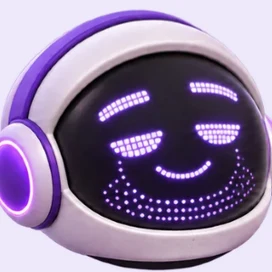
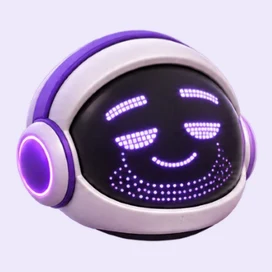
Órbitas sin cruces, núcleo legible e imágenes completas

diff --git a/landing/css/styles.css b/landing/css/styles.css
@@ -169,12 +169,12 @@ h3 { font-size: 1.2rem; font-weight: 700; line-height: 1.3; }
 .orbita__anillos .punteado { stroke-dasharray: 3 7; }
 .orbita__anillos .activo { stroke: var(--soft); stroke-width: 2; }
 .orbita__nucleo {
-  position: absolute; left: 50%; top: 50%; z-index: 1; width: 14%; aspect-ratio: 1; transform: translate(-50%, -50%);
+  position: absolute; left: 50%; top: 50%; z-index: 1; width: clamp(62px, 16.8%, 88px); aspect-ratio: 1; container-type: size; transform: translate(-50%, -50%);
   border-radius: 50%; display: grid; place-items: center; text-align: center;
   background: radial-gradient(circle at 35% 30%, var(--electric), var(--evox) 60%, rgb(112 38 232 / .4));
 }
-.orbita__nucleo span { color: var(--white); font-weight: 700; font-size: clamp(.7rem, 1.6vw, .9375rem); line-height: 1.15; padding: 6px; }
-.orbita__nebula { position: absolute; right: 4%; top: -6%; width: 26%; aspect-ratio: 1.4; border-radius: 50%; background: radial-gradient(closest-side, rgb(183 131 255 / .3), transparent); filter: blur(6px); }
+.orbita__nucleo span { color: var(--white); font-weight: 700; font-size: .7rem; font-size: clamp(.7rem, 17.5cqw, .9375rem); line-height: 1.15; width: min-content; }
+.orbita__nebula { position: absolute; right: -1%; top: -36%; width: 26%; aspect-ratio: 1.4; border-radius: 50%; background: radial-gradient(closest-side, rgb(183 131 255 / .3), transparent); filter: blur(6px); }
 .orbita__misiones li {
   position: absolute; z-index: 2;
   left: calc(50% + cos(var(--a) * 1deg) * var(--rx) * 1%);
@@ -194,7 +194,7 @@ h3 { font-size: 1.2rem; font-weight: 700; line-height: 1.3; }
 /* Con el plano inclinado en 3D, el propio plano, sus capas decorativas y las cajas vacías de cada astro tapaban los enlaces: solo el enlace recibe el clic. */
 .orbita__plano { pointer-events: none; }
 .orbita__misiones a { pointer-events: auto; }
-.orbita__misiones li.es-nebula { left: 80%; top: 4%; }
+.orbita__misiones li.es-nebula { left: 88%; top: -24%; }
 .orbita__misiones a {
   display: flex; flex-direction: column; align-items: center; gap: 2px; padding: 8px; min-height: 44px; text-decoration: none; text-align: center;
   font-size: .8125rem; color: var(--texto); white-space: nowrap;
@@ -222,7 +222,7 @@ h3 { font-size: 1.2rem; font-weight: 700; line-height: 1.3; }
 @media (max-width: 899px) {
   .hero { grid-template-columns: 1fr; min-height: auto; padding-top: calc(var(--cabecera) + 40px); }
   .hero__intro { min-height: 0; }
-  .orbita { max-width: 460px; margin-top: 8px; }
+  .orbita { max-width: 460px; margin-top: 72px; }
   .orbita__misiones a { font-size: .75rem; }
   .orbita__misiones b { font-size: .8125rem; }
 }

diff --git a/landing/js/main.js b/landing/js/main.js
@@ -82,8 +82,8 @@ alHacerScroll();
 /* ---------- Hero: órbitas, inclinación y elección de perfil ---------- */
 const orbita = $('[data-orbita]');
 const plano = $('[data-orbita-plano]');
-const astros = $$('[data-astro]').filter((li) => li.dataset.astro !== 'nebula').map((li, i) => ({
-  li, a: parseFloat(li.style.getPropertyValue('--a')), v: [9, 6, 4, 2.5][i], // grados por segundo: lo interior gira más rápido
+const astros = $$('[data-astro]').filter((li) => li.dataset.astro !== 'nebula').map((li) => ({
+  li, a: parseFloat(li.style.getPropertyValue('--a')),
   rx: parseFloat(li.style.getPropertyValue('--rx')), ry: parseFloat(li.style.getPropertyValue('--ry')),
 }));
 // En la mitad trasera de la órbita el astro pasa detrás del núcleo y su etiqueta va arriba.
@@ -96,10 +96,11 @@ function colocar(s) {
 let heroVisible = true, pausa = false, detenido = false, girando = false, t0 = 0, giroTactil = 0;
 astros.forEach(colocar);
 
+const VELOCIDAD = 5; // grados por segundo, igual para todos: así ningún astro alcanza a otro ni tapa su enlace
 function girar(t) {
   if (!heroVisible || pausa || detenido || reducido.matches || document.hidden) { girando = false; return; }
   const dt = Math.min(64, t - (t0 || t)) / 1000; t0 = t;
-  for (const s of astros) { s.a = (s.a + s.v * dt) % 360; colocar(s); }
+  for (const s of astros) { s.a = (s.a + VELOCIDAD * dt) % 360; colocar(s); }
   requestAnimationFrame(girar);
 }
 function arrancar() { if (!girando && heroVisible && !pausa && !detenido && !reducido.matches) { girando = true; t0 = 0; requestAnimationFrame(girar); } }

diff --git a/landing/index.html b/landing/index.html
@@ -91,9 +91,9 @@
           <div class="orbita__nebula" aria-hidden="true"></div>
           <ul class="orbita__misiones" aria-label="Las cinco misiones">
             <li style="--rx:18.7;--ry:14.7;--a:200" data-astro="ignition"><a href="#mision-ignition"><span class="et"><b>Ignition</b> <span>4 h</span></span></a></li>
-            <li style="--rx:29.3;--ry:23.2;--a:330" data-astro="booster"><a href="#mision-booster"><span class="et"><b>Booster</b> <span>8 h</span></span></a></li>
-            <li style="--rx:40;--ry:31.6;--a:120" data-astro="liftoff"><a href="#mision-liftoff"><span class="et"><b>Liftoff</b> <span>12 h</span></span></a></li>
-            <li style="--rx:48.7;--ry:38.4;--a:15" data-astro="odyssey"><a href="#mision-odyssey"><span class="et"><b>Odyssey</b> <span>a la medida</span></span></a></li>
+            <li style="--rx:29.3;--ry:23.2;--a:320" data-astro="booster"><a href="#mision-booster"><span class="et"><b>Booster</b> <span>8 h</span></span></a></li>
+            <li style="--rx:40;--ry:31.6;--a:50" data-astro="liftoff"><a href="#mision-liftoff"><span class="et"><b>Liftoff</b> <span>12 h</span></span></a></li>
+            <li style="--rx:48.7;--ry:38.4;--a:125" data-astro="odyssey"><a href="#mision-odyssey"><span class="et"><b>Odyssey</b> <span>a la medida</span></span></a></li>
             <li class="es-nebula" data-astro="nebula"><a href="#mision-nebula"><span class="et"><b>Nebula</b> <span>a tu ritmo</span></span></a></li>
           </ul>
         </div>

diff --git a/assets-src/preparar_imagenes.py b/assets-src/preparar_imagenes.py
@@ -1,9 +1,9 @@
 """Genera las imágenes del sitio a partir de recursos locales.
 - Max: expresiones aprobadas del visor, recortadas de la lámina grande del manual, pagina-16.png (fondo lila aprobado).
 - Max de cuerpo entero: poses aprobadas de pagina-17.png (fondo Black), recortadas sin alterar la ilustración.
-- Trainer: fotograma real (s=8) de 'reto-02-edicion/Video de ejemplo.mp4', color natural con leve contraste."""
+- Trainer: fotograma real (s=8) de 'reto-02-edicion/Video de ejemplo.mp4', sin alterar el color."""
 import sys
-from PIL import Image, ImageOps
+from PIL import Image
 import numpy as np
 
 MANUAL, SRC, OUT = sys.argv[1], sys.argv[2], sys.argv[3]
@@ -11,7 +11,9 @@ MANUAL, SRC, OUT = sys.argv[1], sys.argv[2], sys.argv[3]
 # Expresiones del visor en la lámina grande (pagina-16.png, fondo lila aprobado).
 page = Image.open(f"{MANUAL}/pagina-16.png").convert("RGB")
 for name, cx in [("cansado", 292), ("motivado", 630), ("analitico", 968), ("idea", 1308)]:
-    page.crop((cx - 150, 1085, cx + 150, 1385)).resize((272, 272), Image.LANCZOS).save(f"{OUT}/max-{name}.webp", quality=88)
+    cara = Image.new("RGB", (370, 370), page.getpixel((cx, 1070)))  # casco completo, con aire para el recorte circular
+    cara.paste(page.crop((cx - 168, 1090, cx + 168, 1390)), (17, 35))
+    cara.resize((272, 272), Image.LANCZOS).save(f"{OUT}/max-{name}.webp", quality=88)
 
 # Poses de cuerpo entero: el fondo Black conectado al borde pasa a transparente;
 # el visor (negro, encerrado por el casco) se conserva. Bordes suaves por distancia al fondo.
@@ -19,7 +21,7 @@ from scipy import ndimage as nd
 BG = np.array([5, 5, 7.0])
 p17 = np.asarray(Image.open(f"{MANUAL}/pagina-17.png").convert("RGB")).astype(float)
 for name, (x0, x1, y0, y1) in {
-    "presentando": (115, 365, 60, 404), "trabajando": (822, 1052, 72, 404), "descansando": (1254, 1488, 34, 404),
+    "presentando": (115, 365, 60, 410), "trabajando": (822, 1052, 72, 404), "descansando": (1254, 1493, 34, 404),
 }.items():
     c = p17[y0:y1, x0:x1]
     d = np.abs(c - BG).max(-1)
@@ -34,7 +36,6 @@ for name, (x0, x1, y0, y1) in {
     Image.fromarray(np.dstack([rgb, a * 255]).astype(np.uint8), "RGBA").save(f"{OUT}/max-{name}.webp", quality=90)
 
 im = Image.open(f"{SRC}/trainer-frame-ejemplo-8s.png").convert("RGB").crop((600, 70, 1360, 1020))  # 4:5
-im = ImageOps.autocontrast(im, cutoff=0.5)
 for w in (360, 720):
     im.resize((w, w * 5 // 4), Image.LANCZOS).save(f"{OUT}/trainer-{w}.webp", quality=80)
 print("ok")
